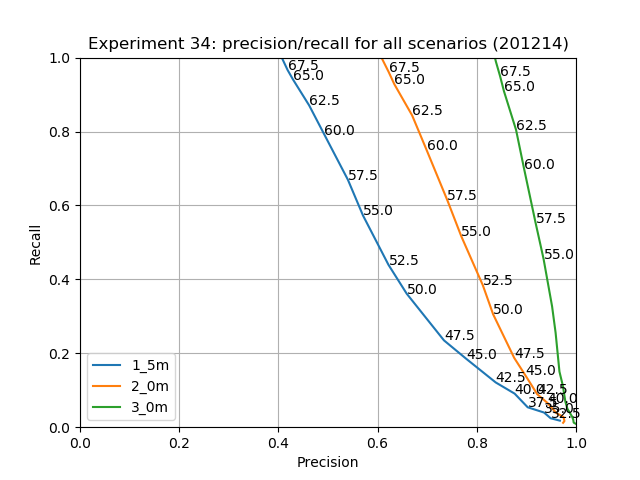
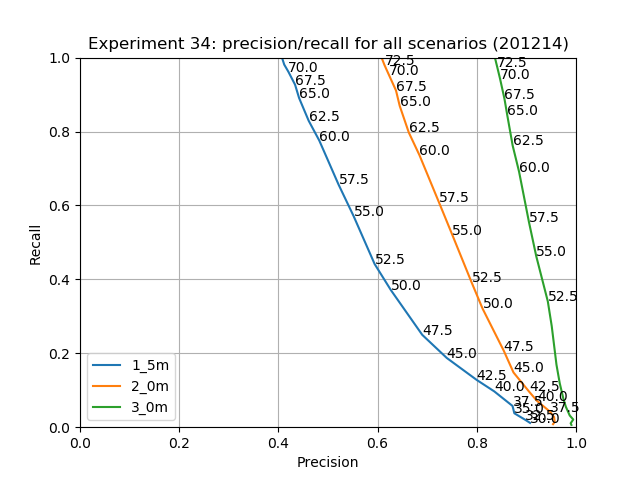
Store actual updated values (fixed push from old values)

Changed region(s): [[0.4375, 0.0938, 0.9062, 0.9062]]

diff --git a/measurements.py b/measurements.py
@@ -31,12 +31,12 @@ MODEL_RX_TX_COMPENSATION = { # date: 201214
     'iPhoneXS': [0.0, 3.0],
     'iPhone11': [0.0, 1.0],
     'iPhone11Pro': [0.0, 3.0],
-    'SM-G973F': [5.0, -24.0],
-    'SM-G970F': [5.0, -24.0],
-    'SM-A405FN': [5.0, -24.0],
-    'SM-A515F': [5.0, -24.0],
-    'SM-A908B': [5.0, -24.0],
-    'SM-G981B/DS': [5.0, -24.0] # SM-G981B in table
+    'SM-G973F': [2.0, -29.0],
+    'SM-G970F': [5.0, -25.0],
+    'SM-A405FN': [2.0, -23.0],
+    'SM-A515F': [2.0, -28.0],
+    'SM-A908B': [5.0, -25.0],
+    'SM-G981B/DS': [5.0, -25.0] # SM-G981B in table
 }
 
 MODEL_RX_TX_COMPENSATION_200918 = { # date: 200918
